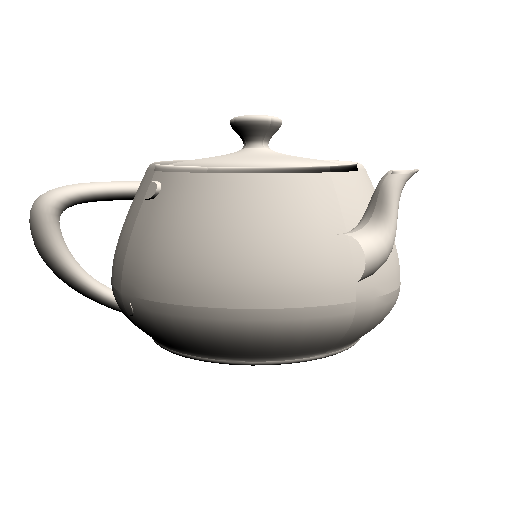
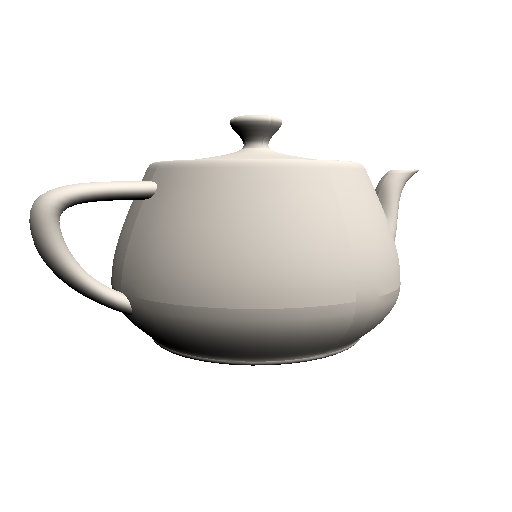
fix: drawMeshShaderISA barycentric sign — 打光/遮擋反掉的真 bug
Ryan 發現 ISA 版茶壺出水口像被本體擋住、上暗下亮反掉。根因：
drawMeshShaderISA 剔背面後漏了 area=-area（drawMesh 有），導致
barycentric 權重反號 → 內插法向量變負 → 整個打光反向 + 深度內插
也連帶錯（看起來像出水口被本體遮住）。補上 area=-area，與 drawMesh
一致後：上亮下暗正確、出水口/把手乾淨、Z-buffer 遮擋正確。

（順帶釐清：teapot OBJ 的 face 繞向本來就對，先前誤翻法向量也一併
還原。）

diff --git a/gpu3d/renderer3d.cpp b/gpu3d/renderer3d.cpp
@@ -43,8 +43,7 @@ Mesh loadOBJ(const char *path) {
   } else {
     for (size_t i = 0; i + 2 < m.idx.size(); i += 3) {
       uint32_t a = m.idx[i], b = m.idx[i + 1], c = m.idx[i + 2];
-      // 這個 teapot OBJ 的 face 繞向讓 cross(b-a,c-a) 指向內 → 取負朝外
-      Vec3 fn = cross(m.pos[c] - m.pos[a], m.pos[b] - m.pos[a]);
+      Vec3 fn = cross(m.pos[b] - m.pos[a], m.pos[c] - m.pos[a]);
       m.normal[a] = m.normal[a] + fn;
       m.normal[b] = m.normal[b] + fn;
       m.normal[c] = m.normal[c] + fn;
@@ -172,7 +171,10 @@ void drawMeshShaderISA(const Mesh &mesh, const Mat4 &model, const Mat4 &view,
     auto sy = [&](const Vary &v) { return (1 - (v.ndc.y * 0.5f + 0.5f)) * fb.h; };
     float x0 = sx(A), y0 = sy(A), x1 = sx(B), y1 = sy(B), x2 = sx(C), y2 = sy(C);
     float area = edge(x0, y0, x1, y1, x2, y2);
-    if (area >= 0) continue;
+    if (area >= 0) continue;               // 背面剔除
+    area = -area;                          // ← 跟 drawMesh 一致：翻正，否則
+                                           //   barycentric 反號 → 法向量被
+                                           //   內插成負的 → 打光整個反掉
     int minx = std::max(0, (int)std::floor(std::min({x0, x1, x2})));
     int maxx = std::min(fb.w - 1, (int)std::ceil(std::max({x0, x1, x2})));
     int miny = std::max(0, (int)std::floor(std::min({y0, y1, y2})));